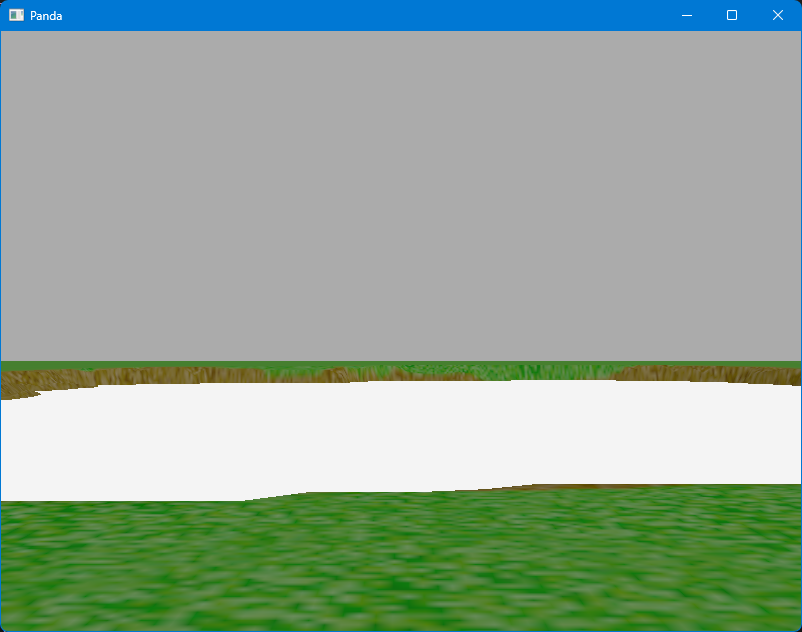
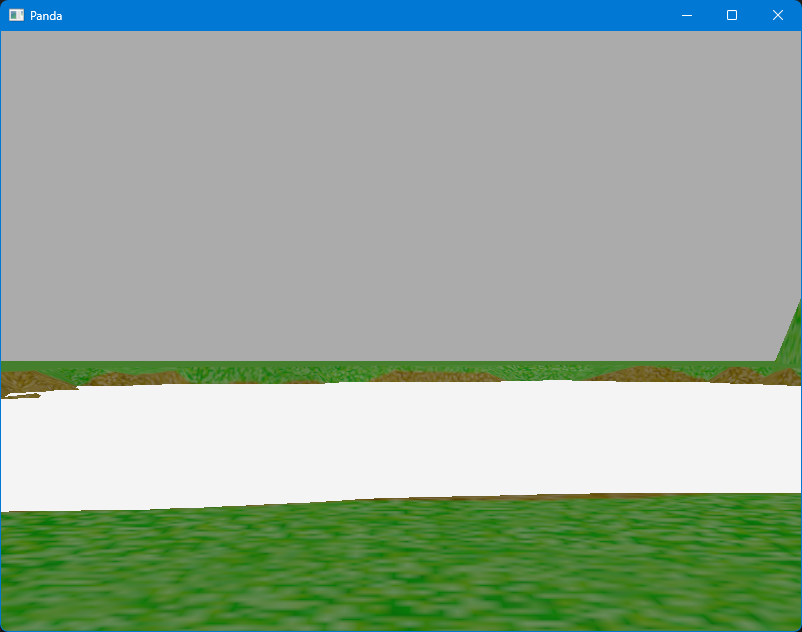
Switch to GeoMipTerrain for PBR terrain lesson 3.

Changed region(s): [[0.0, 0.7516, 1.0, 1.0], [0.0, 0.4509, 1.0, 0.6313]]

diff --git a/pbr/terrain/03-water_plane/main.py b/pbr/terrain/03-water_plane/main.py
@@ -2,7 +2,9 @@ from direct.showbase.ShowBase import ShowBase
 from panda3d.core import (
     AmbientLight,
     DirectionalLight,
+    GeoMipTerrain,
     load_prc_file,
+    Material,
     SamplerState,
     Shader,
     TextureStage,
@@ -40,6 +42,14 @@ class TerrainDemo(ShowBase):
         self.sun.set_hpr(45, -45, 0)
         self.render.set_light(self.sun)
 
+        # Create materials
+        terrain_mat = Material("Terrain")
+        terrain_mat.set_base_color(Vec4(0, .5, 0, 1))
+        terrain_mat.set_metallic(0)
+        terrain_mat.set_emission(Vec4(0, 0, 0, 1))
+        terrain_mat.set_roughness(.8)
+        terrain_mat.set_refractive_index(1.5)
+
         # Load textures
         self.grass_tex = self.loader.load_texture("images/Grass.png")
         self.grass_tex.minfilter = SamplerState.FT_linear_mipmap_linear
@@ -62,36 +72,49 @@ class TerrainDemo(ShowBase):
         self.color_mask_tex.magfilter = SamplerState.FT_linear_mipmap_linear
 
         # Load terrain
-        self.terrain = self.loader.load_model("meshes/Terrain.gltf")
-        self.terrain.set_scale(256, 256, 256)
-        self.terrain.set_pos(0, 261, 0)
+        self.terrain = GeoMipTerrain("Terrain")
+        self.terrain.set_heightfield("images/Heightmap.png")
+        self.terrain.set_block_size(32)
+        self.terrain.set_focal_point(self.camera)
 
-        self.terrain.set_shader(self.terrain_shader)
-        self.terrain.set_shader_input("texScale0", Vec2(.1, .1))
-        self.terrain.set_shader_input("texScale1", Vec2(.1, .1))
-        self.terrain.set_shader_input("texScale2", Vec2(.1, .1))
-        self.terrain.set_shader_input("texScale3", Vec2(.1, .1))
+        self.terrain.get_root().set_sz(128)
+        self.terrain.get_root().set_pos(-256, 0, -64)
+        self.terrain.get_root().set_material(terrain_mat)
+
+        self.terrain.get_root().set_shader(self.terrain_shader)
+        self.terrain.get_root().set_shader_input("texScale0", Vec2(.1, .1))
+        self.terrain.get_root().set_shader_input("texScale1", Vec2(.1, .1))
+        self.terrain.get_root().set_shader_input("texScale2", Vec2(.1, .1))
+        self.terrain.get_root().set_shader_input("texScale3", Vec2(.1, .1))
 
         stage0 = TextureStage("Grass")
-        stage0.set_texcoord_name("0")
         stage1 = TextureStage("Dirt")
         stage2 = TextureStage("Rock")
         stage3 = TextureStage("Blank")
         stage4 = TextureStage("ColorMask")
 
-        self.terrain.set_texture(stage0, self.grass_tex)
-        self.terrain.set_texture(stage1, self.dirt_tex)
-        self.terrain.set_texture(stage2, self.rock_tex)
-        self.terrain.set_texture(stage3, self.blank_tex)
-        self.terrain.set_texture(stage4, self.color_mask_tex)
+        self.terrain.get_root().set_texture(stage0, self.grass_tex)
+        self.terrain.get_root().set_texture(stage1, self.dirt_tex)
+        self.terrain.get_root().set_texture(stage2, self.rock_tex)
+        self.terrain.get_root().set_texture(stage3, self.blank_tex)
+        self.terrain.get_root().set_texture(stage4, self.color_mask_tex)
 
-        self.terrain.reparent_to(self.render)
+        self.terrain.generate()
+        self.terrain.get_root().reparent_to(self.render)
 
         # Load water plane
         self.water = WaterPlane(
             Vec3(0, 261, -20),
             scale=Vec3(256, 256, 1)
         )
+
+        # Add update task
+        self.task_mgr.add(self.update, "update")
+
+    def update(self, task):
+        # Update terrain
+        self.terrain.update()
+        return task.cont
 
 
 # Entry Point

diff --git a/pbr/terrain/03-water_plane/README.md b/pbr/terrain/03-water_plane/README.md
@@ -77,7 +77,9 @@ from direct.showbase.ShowBase import ShowBase
 from panda3d.core import (
     AmbientLight,
     DirectionalLight,
+    GeoMipTerrain,
     load_prc_file,
+    Material,
     SamplerState,
     Shader,
     TextureStage,
@@ -98,5 +100,5 @@ self.water = WaterPlane(
 )
 ```
 
-If you run your code at this point, you should see a grey plane across the depression in the center of the terrain:  
+If you run your code at this point, you should see a white plane across the depression in the center of the terrain:  
 ![water plane](https://github.com/Cybermals/panda3d-shader-tutorials/blob/main/pbr/terrain/03-water_plane/screenshots/01-water_plane.png?raw=true)
